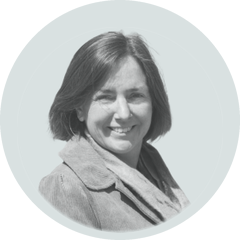
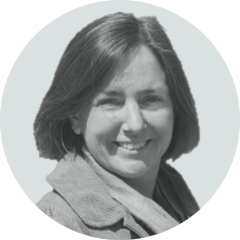
Recensiefoto's op de maat van Marjanne; auteursfoto in kennisartikelen op wit
Ronald en Martin zijn opnieuw uitgesneden uit de originele portretten (Martin uit
zijn portret van december 2023, achtergrond weggehaald met macOS Vision), Iris uit
de bestaande cirkelfoto. Alle drie in de stijl van Marjanne: grijswaarden, zelfde
lichte achtergrondcirkel, hoofd bovenaan met dezelfde ruimte en dezelfde breedte.
De auteursfoto onder kennisartikelen stond roze op roze; de cirkel is nu wit zoals
op de contactpagina, zonder roze gloed. Kennis-CSS-versie naar 40.

diff --git a/kennis-src/_data/site.js b/kennis-src/_data/site.js
@@ -15,7 +15,7 @@ module.exports = {
   },
   // Cache-bust-versies van de CSS/JS (gelijk houden aan de bestaande pagina's;
   // pages.css is v18 omdat de kennis-stijlen daarin nieuw zijn)
-  cssVersions: { variables: 33, base: 33, components: 33, pages: 33 },
+  cssVersions: { variables: 33, base: 33, components: 33, pages: 40 },
   jsVersion: 5,
   // Bestaande statische pagina's (voor sitemap.xml) — nieuwe pagina hier bijschrijven
   pages: [

diff --git a/css/pages.css b/css/pages.css
@@ -2057,8 +2057,7 @@ main > section:last-of-type#contact-grid .contact-booking {
     width: 84px;
     height: 84px;
     border-radius: 50%;
-    background: #FCE7F3; /* zachte roze cirkel, zelfde uitsnede als contactpagina SAAR */
-    box-shadow: 0 8px 24px rgba(236, 72, 153, 0.15);
+    background: var(--color-white); /* wit op het steunvlak, zoals op de contactpagina */
     overflow: hidden;
     flex-shrink: 0;
 }
